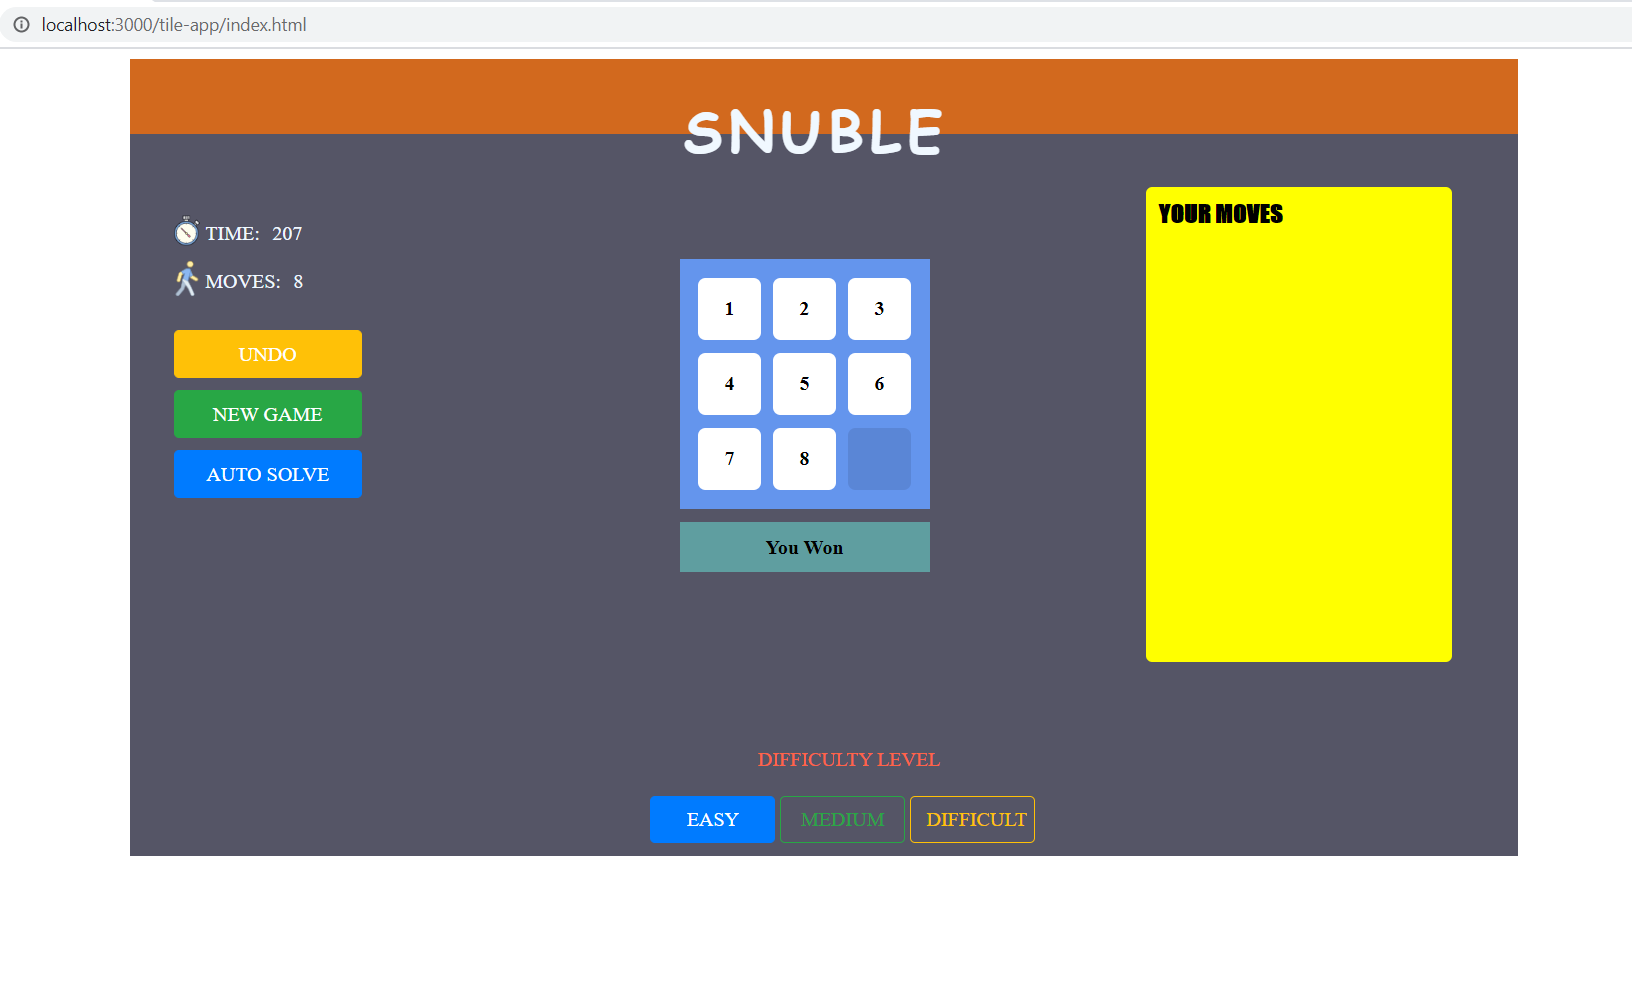
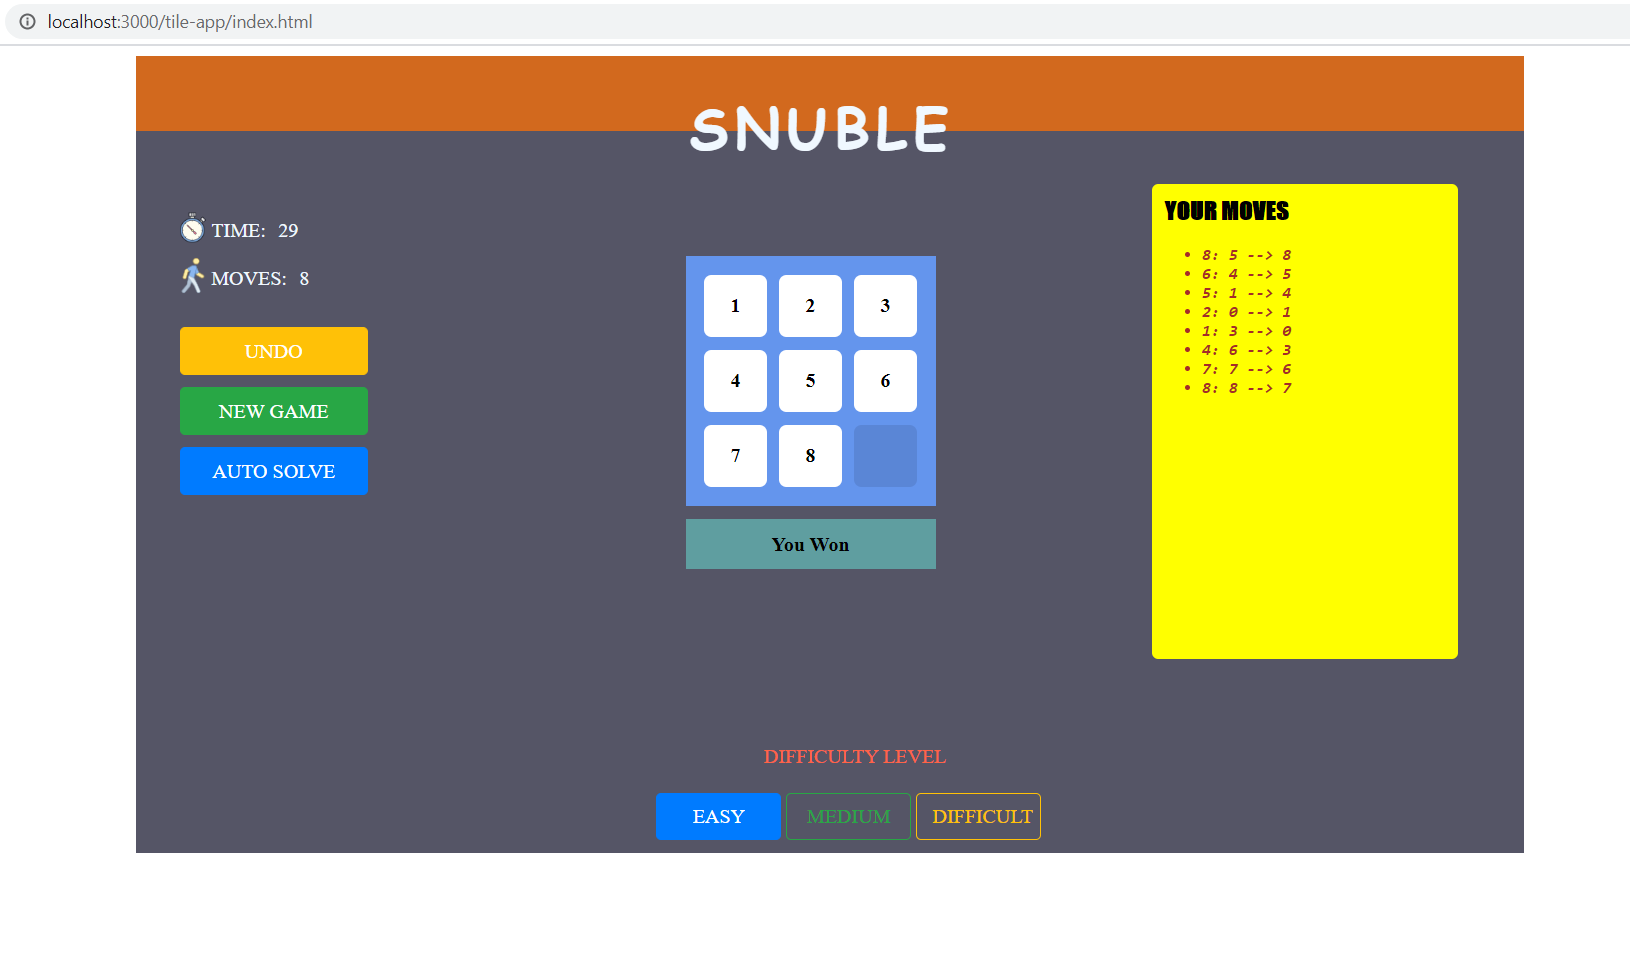
moves logs enabled

diff --git a/src/grid.js b/src/grid.js
@@ -54,7 +54,7 @@ class Grid extends HTMLElement{
             let currentNumber = parseInt(e.target.getAttribute('num'));
             if(currentPosition !== emptyTilePosition && isMovementPossible(currentPosition,emptyTilePosition,size)){
                 movesStack.push({oldPos:currentPosition,newPos:emptyTilePosition,num:currentNumber});
-                this.makeMove(currentPosition,currentNumber,1);
+                this.makeMove(currentPosition,currentNumber,movesStack);
                 if(isGameComplete([...tilesArray])){
                     isGameFinished = true;
                     this.$$('#game-status').style.display = 'block';
@@ -76,16 +76,16 @@ class Grid extends HTMLElement{
             bubbles:true,
             cancelable:true,
             detail:{
-                moves:moves
+                moves:moves.slice(0,moves.length)
             }
         });
         this.dispatchEvent(moveEvent);
     }
 
     undo(){
-        if(movesStack.length > 0){
+        if(movesStack.length > 0 && !isGameFinished){
             let lastMove = movesStack.pop();
-            this.makeMove(lastMove.newPos,lastMove.num,-1);
+            this.makeMove(lastMove.newPos,lastMove.num,movesStack);
             return true;
         }
         return false;

diff --git a/src/moves-log.js b/src/moves-log.js
@@ -2,10 +2,10 @@ const html = `
     <link rel='stylesheet' href='moves-log.css'/>
     <div class="moves-log">
         <h5>YOUR MOVES</h5>
-        <ol id= "moves-list" class="moves-list"></ol>
+        <ul id= "moves-list" class="moves-list"></ul>
     </div>
 `
-
+let movesStack = [];
 export class MoveLog extends HTMLElement{
     constructor(){
         super();
@@ -13,10 +13,25 @@ export class MoveLog extends HTMLElement{
         this.$$ = css => this.shadowRoot.querySelector(css);
     }
 
-    connectedCallback(){
-
+    updateMoves(moves){
+        if(moves.length > movesStack.length){
+            movesStack.push(moves[moves.length-1]);
+            this.addMove(movesStack[moves.length-1]);
+        }else if(movesStack.length > moves.length){
+            movesStack.pop();
+            this.removeLastMove();
+        }
     }
 
+    addMove(move){
+        let li = document.createElement('li');
+        li.innerText = `${move.num}: ${move.oldPos} --> ${move.newPos}`;
+        this.$$('#moves-list').appendChild(li);
+    }
 
+    removeLastMove(){
+        let list = this.$$('#moves-list');
+        list.removeChild(list.childNodes[list.childNodes.length-1]);
+    }
 }
 customElements.define('moves-log',MoveLog);

diff --git a/src/app.js b/src/app.js
@@ -41,7 +41,6 @@ const html = `
 `;
 let currentLevel = 'easy';
 let timer;
-let moves = 0;
 class TileApp extends HTMLElement{
     constructor(){
         super();
@@ -82,14 +81,14 @@ class TileApp extends HTMLElement{
         });
 
         this.$$('grid-element').addEventListener('move',(e)=>{
-              moves = moves + e.detail.moves;
-              this.updateMoves(moves);
+              this.updateMoves(e.detail.moves);
         });
         this.resetGame('easy');
     }
 
     updateMoves(moves){
-        this.$$('#moves').innerHTML = moves;
+        this.$$('#moves').innerHTML = moves.length;
+        this.$$('moves-log').updateMoves(moves);
     }
 
     resetGame(level){
@@ -102,9 +101,8 @@ class TileApp extends HTMLElement{
         this.$$(`.level-buttons #${currentLevel}`).classList.remove('selected');
         this.$$(`.level-buttons #${level}`).classList.add('selected');
         currentLevel = level;
-        moves = 0;
         timer = this.setTimer();
-        this.updateMoves(0);
+        this.updateMoves([]);
     }
 
     setTimer(){

diff --git a/src/moves-log.css b/src/moves-log.css
@@ -13,3 +13,11 @@
     font-size: larger;
     font-family: fantasy;
 }
+
+.moves-list li{
+   font-style: italic;
+   font-size: medium;
+   font-weight: 600;
+   color: brown;
+   font-family: monospace;
+}
